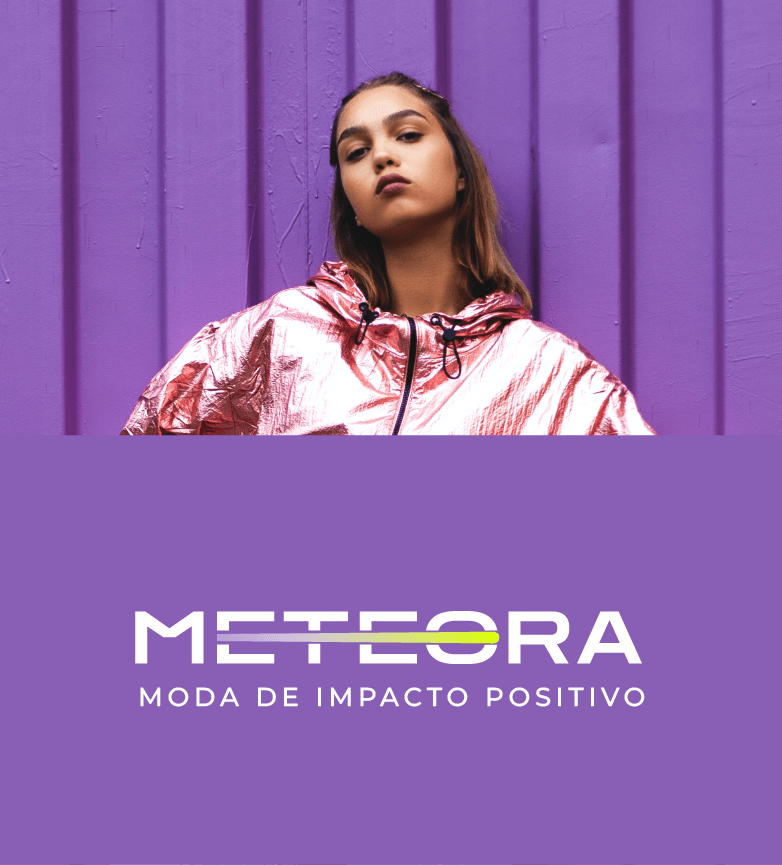
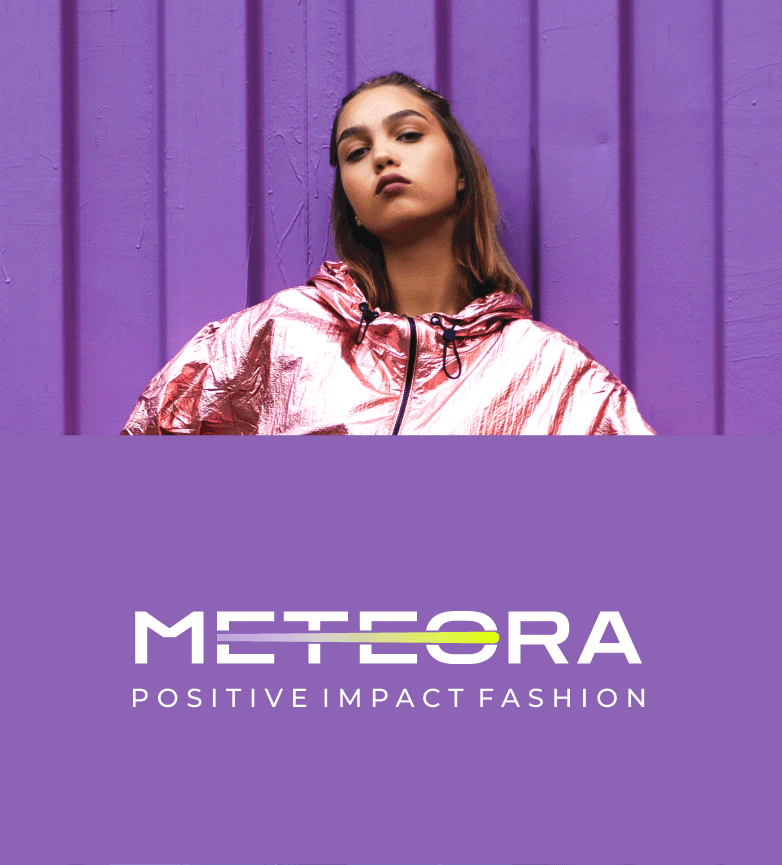
chore: translate navbar and carousel to english

Changed region(s): [[0.1535, 0.7803, 0.8286, 0.8428]]

diff --git a/src/components/CarouselVue.vue b/src/components/CarouselVue.vue
@@ -28,17 +28,17 @@
         <img
           src="@/assets/images/banners_mob/banner_1.png"
           class="d-md-none w-100"
-          alt="Modelo feminina vestindo blusa rosa fluorescente em fundo lilás"
+          alt="Female model wearing pink blouse in a purple background"
         />
         <img
           src="@/assets/images/banners_tablet/banner_1.png"
           class="d-none d-md-block d-xl-none w-100"
-          alt="Modelo feminina vestindo blusa rosa fluorescente em fundo lilás"
+          alt="Female model wearing pink blouse in a purple background"
         />
         <img
           src="@/assets/images/banners_desktop/banner_1.png"
           class="d-none d-xl-block w-100"
-          alt="Modelo feminina vestindo blusa rosa fluorescente em fundo lilás"
+          alt="Female model wearing pink blouse in a purple background"
         />
       </div>
       <!-- CARROSSEL 02 -->
@@ -46,21 +46,21 @@
         <img
           src="@/assets/images/banners_mob/banner_2.png"
           class="d-md-none w-100"
-          alt="Modelo feminina vestindo moleton cinza mescla com óculos escuro em fundo rosa"
+          alt="Female model wearing gray sweatshirt with sunglasses in a pink background"
         />
         <img
           src="@/assets/images/banners_tablet/banner_2.png"
           class="d-none d-md-block d-xl-none w-100"
-          alt="Modelo feminina vestindo moleton cinza mescla com óculos escuro em fundo rosa"
+          alt="Female model wearing gray sweatshirt with sunglasses in a pink background"
         />
         <img
           src="@/assets/images/banners_desktop/banner_2.png"
           class="d-none d-xl-block w-100"
-          alt="Modelo feminina vestindo moleton cinza mescla com óculos escuro em fundo rosa"
+          alt="Female model wearing gray sweatshirt with sunglasses in a pink background"
         />
         <div class="carousel-caption caption-2 d-md-block">
-          <h5 class="carousel-title fw-medium text-uppercase">Coleção atemporal</h5>
-          <p class="lh-llg">Estilo e qualidade para durar.</p>
+          <h5 class="carousel-title fw-medium text-uppercase">Timeless collection</h5>
+          <p class="lh-llg">Style and quality to last.</p>
         </div>
       </div>
       <!-- CARROSSEL 03 -->
@@ -68,21 +68,21 @@
         <img
           src="@/assets/images/banners_mob/banner_3.png"
           class="d-md-none w-100"
-          alt="Modelo masculino com blazer cinza, camisa branca, gravata borboleta e chapéu em fundo laranja"
+          alt="Male model with gray blazer, white shirt, bow-tie and hat in an orange background"
         />
         <img
           src="@/assets/images/banners_tablet/banner_3.png"
           class="d-none d-md-block d-xl-none w-100"
-          alt="Modelo masculino com blazer cinza, camisa branca, gravata borboleta e chapéu em fundo laranja"
+          alt="Male model with gray blazer, white shirt, bow-tie and hat in an orange background"
         />
         <img
           src="@/assets/images/banners_desktop/banner_3.png"
           class="d-none d-xl-block w-100"
-          alt="Modelo masculino com blazer cinza, camisa branca, gravata borboleta e chapéu em fundo laranja"
+          alt="Male model with gray blazer, white shirt, bow-tie and hat in an orange background"
         />
         <div class="carousel-caption caption-3 d-md-block">
-          <h5 class="carousel-title fw-medium text-uppercase">Coleção atemporal</h5>
-          <p>Alto impacto visual, baixo impacto ambiental.</p>
+          <h5 class="carousel-title fw-medium text-uppercase">Timeless collection</h5>
+          <p>High visual impact, low environmental impact.</p>
         </div>
       </div>
     </div>

diff --git a/src/components/NavBar.vue b/src/components/NavBar.vue
@@ -37,13 +37,13 @@
             <a class="nav-link p-0 p-md-2 active" aria-current="page" href="#">Home</a>
           </li>
           <li class="nav-item py-2 border-bottom">
-            <a class="nav-link p-0 p-md-2" href="#">Nossas lojas</a>
+            <a class="nav-link p-0 p-md-2" href="#">Our stores</a>
           </li>
           <li class="nav-item py-2 border-bottom">
-            <a class="nav-link p-0 p-md-2" href="#">Novidades</a>
+            <a class="nav-link p-0 p-md-2" href="#">News</a>
           </li>
           <li class="nav-item py-2">
-            <a class="nav-link p-0 p-md-2" href="#">Promoções</a>
+            <a class="nav-link p-0 p-md-2" href="#">Sale items</a>
           </li>
         </ul>
         <!-- Input tablet+ -->
@@ -51,12 +51,12 @@
           <input
             class="form-control me-2 rounded-0"
             type="search"
-            placeholder="Digite o produto"
-            aria-label="Buscar produto"
+            placeholder="Search a product"
+            aria-label="Search a product"
             v-model="productsStore.query"
             @change="console.log(productsStore.query)"
           />
-          <button class="btn btn-outline-light rounded-0" type="submit">Buscar</button>
+          <!-- <button class="btn btn-outline-light rounded-0" type="submit">Buscar</button> -->
         </form>
       </div>
     </div>
@@ -67,12 +67,12 @@
       <input
         class="form-control me-2 rounded-0 border-black"
         type="search"
-        placeholder="Digite o produto"
-        aria-label="Buscar produto"
+        placeholder="Search a product"
+        aria-label="Search a product"
         v-model="productsStore.query"
         @change="console.log(productsStore.query)"
       />
-      <button class="btn btn-outline-dark rounded-0" type="submit">Buscar</button>
+      <!-- <button class="btn btn-outline-dark rounded-0" type="submit">Buscar</button> -->
     </form>
   </section>
 </template>

diff --git a/index.html b/index.html
@@ -7,7 +7,7 @@
     <link rel="preconnect" href="https://fonts.googleapis.com" />
     <link rel="preconnect" href="https://fonts.gstatic.com" crossorigin />
     <link
-      href="https://fonts.googleapis.com/css2?family=Inter:wght@400;500;700&display=swap"
+      href="https://fonts.googleapis.com/css2?family=Inter:wght@400;500;700&family=Montserrat:wght@400;500&display=swap"
       rel="stylesheet"
     />
     <title>Meteora</title>

diff --git a/src/assets/styles/_variables.scss b/src/assets/styles/_variables.scss
@@ -1,4 +1,5 @@
 $inter: 'Inter', sans-serif;
+$montserrat: 'Montserrat', sans-serif;
 
 $primary-black: #000;
 $primary-grey: #ccc;
